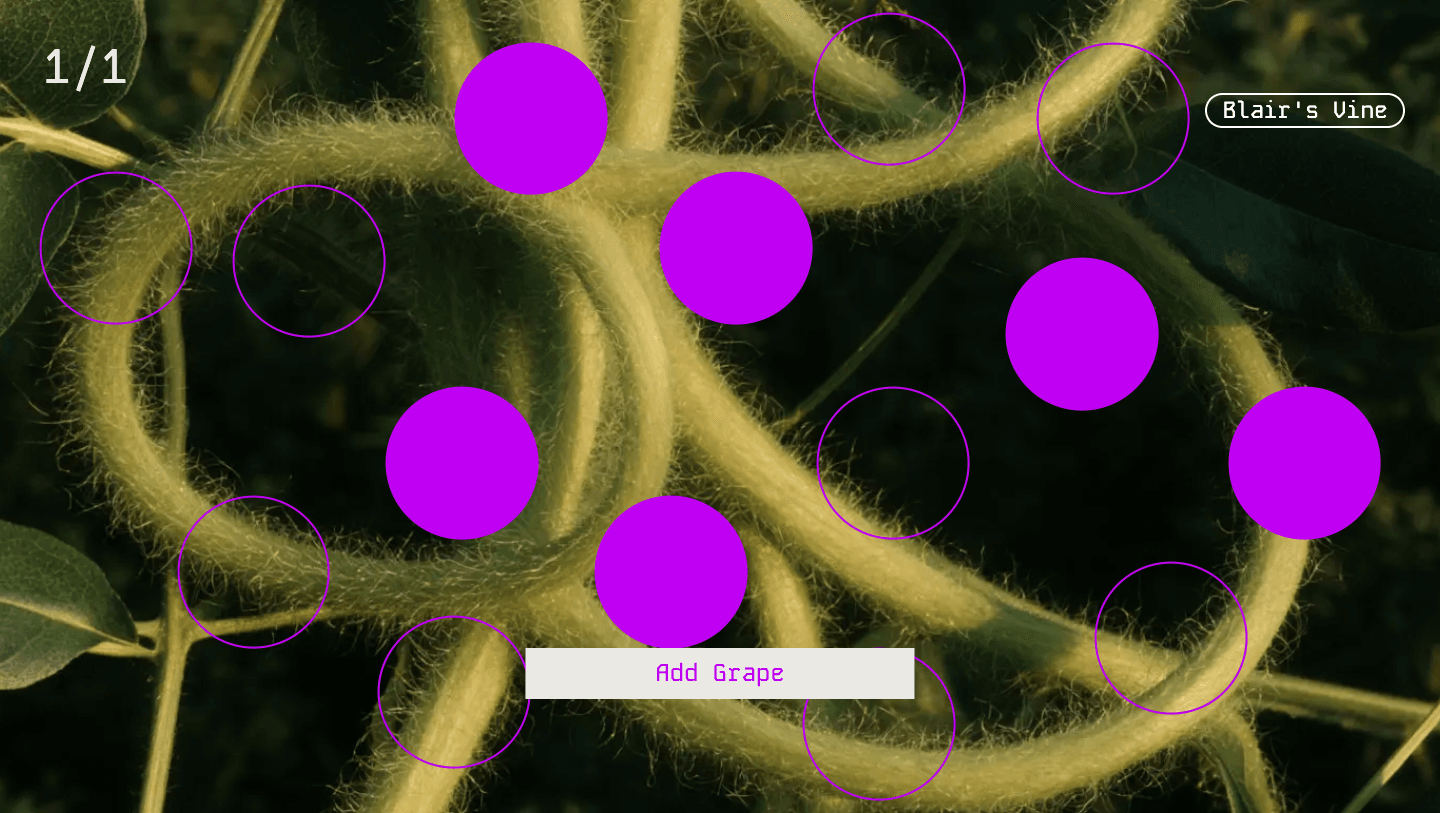
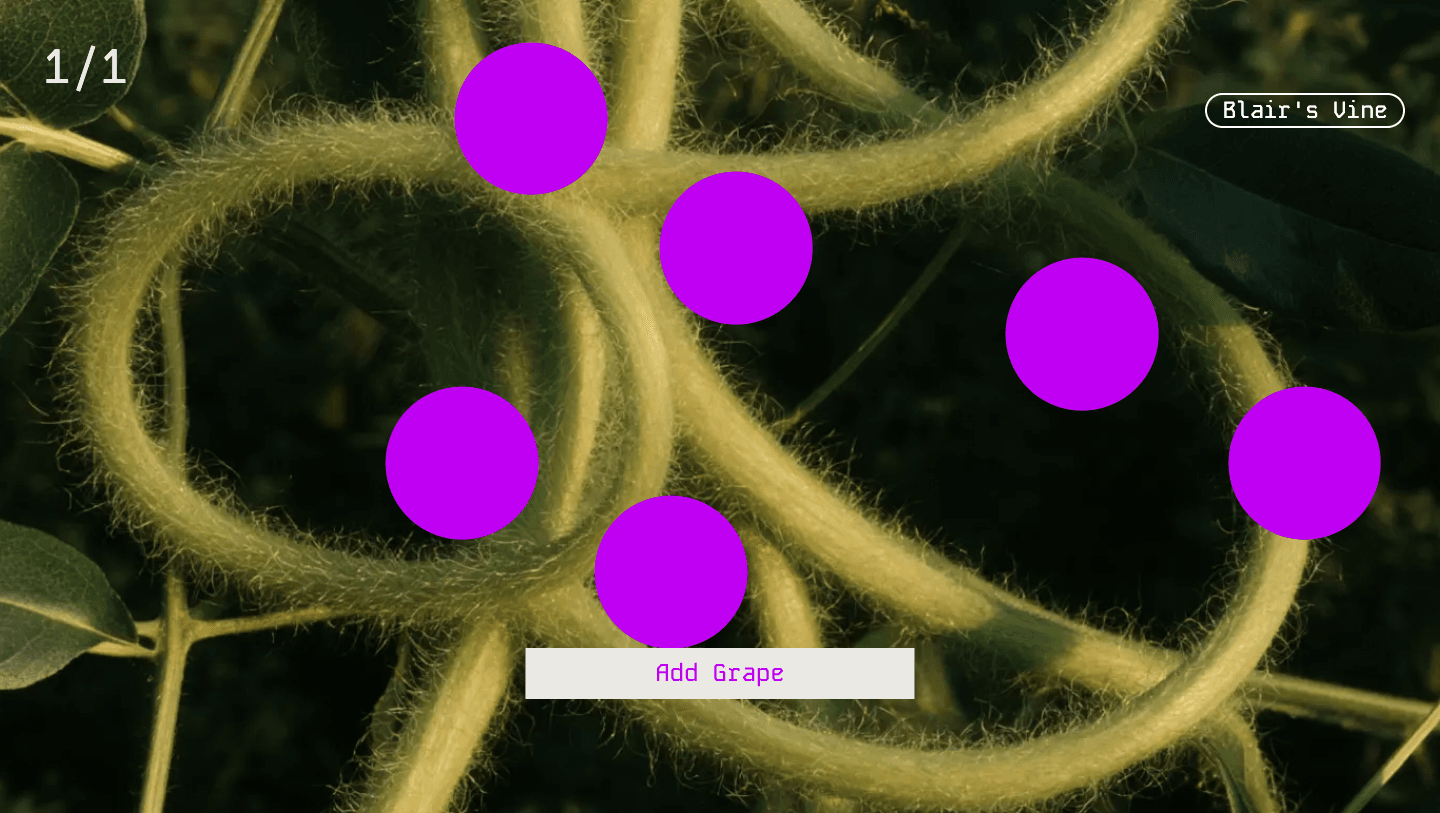
방문자 스크린샷 교체 + README 설명 갱신
빈 알을 안 그리게 바뀐 화면으로 05~07 을 다시 찍었다.
"빈 알은 아웃라인" 설명이 더는 맞지 않아 고쳤다.

diff --git a/README.md b/README.md
@@ -45,7 +45,7 @@
 
 <table>
 <tr>
-<td width="33%"><img src="docs/images/05-visitor-board.png" alt="방문자가 보는 판" /><br/><sub><b>1. 링크를 연다</b><br/>빈 알은 아웃라인이고 채운 알은 솔리드다</sub></td>
+<td width="33%"><img src="docs/images/05-visitor-board.png" alt="방문자가 보는 판" /><br/><sub><b>1. 링크를 연다</b><br/>친구들이 남긴 알만 넝쿨 위에 놓인다</sub></td>
 <td width="33%"><img src="docs/images/06-add-grape.png" alt="Add Grape 모달" /><br/><sub><b>2. 칭찬을 붙인다</b><br/>이름을 쓰거나 <code>Unknown</code> 을 고른다</sub></td>
 <td width="33%"><img src="docs/images/07-see-grape.png" alt="See Grape 모달" /><br/><sub><b>3. 눌러서 읽는다</b><br/>이름이 제목이 되고 아래에 칭찬이 온다</sub></td>
 </tr>
@@ -139,7 +139,7 @@ PRD 는 이미지 시퀀스를 iOS 스크러빙이 불안정할 때의 폴백으
 </tr>
 <tr>
 <td><img src="docs/images/04-about.png" alt="About" /><br/><sub><b>About</b><br/>포도알이 떠다니고 커서를 피한다</sub></td>
-<td><img src="docs/images/08-my-board.png" alt="My Vine" /><br/><sub><b>My Vine</b><br/>주인 화면에는 빈 알을 그리지 않는다</sub></td>
+<td><img src="docs/images/08-my-board.png" alt="My Vine" /><br/><sub><b>My Vine</b><br/>빈 자리는 그리지 않는다. 채운 수만 보인다</sub></td>
 </tr>
 <tr>
 <td><img src="docs/images/09-share.png" alt="Share My Vine" /><br/><sub><b>Share</b><br/>이 링크가 전부다</sub></td>
